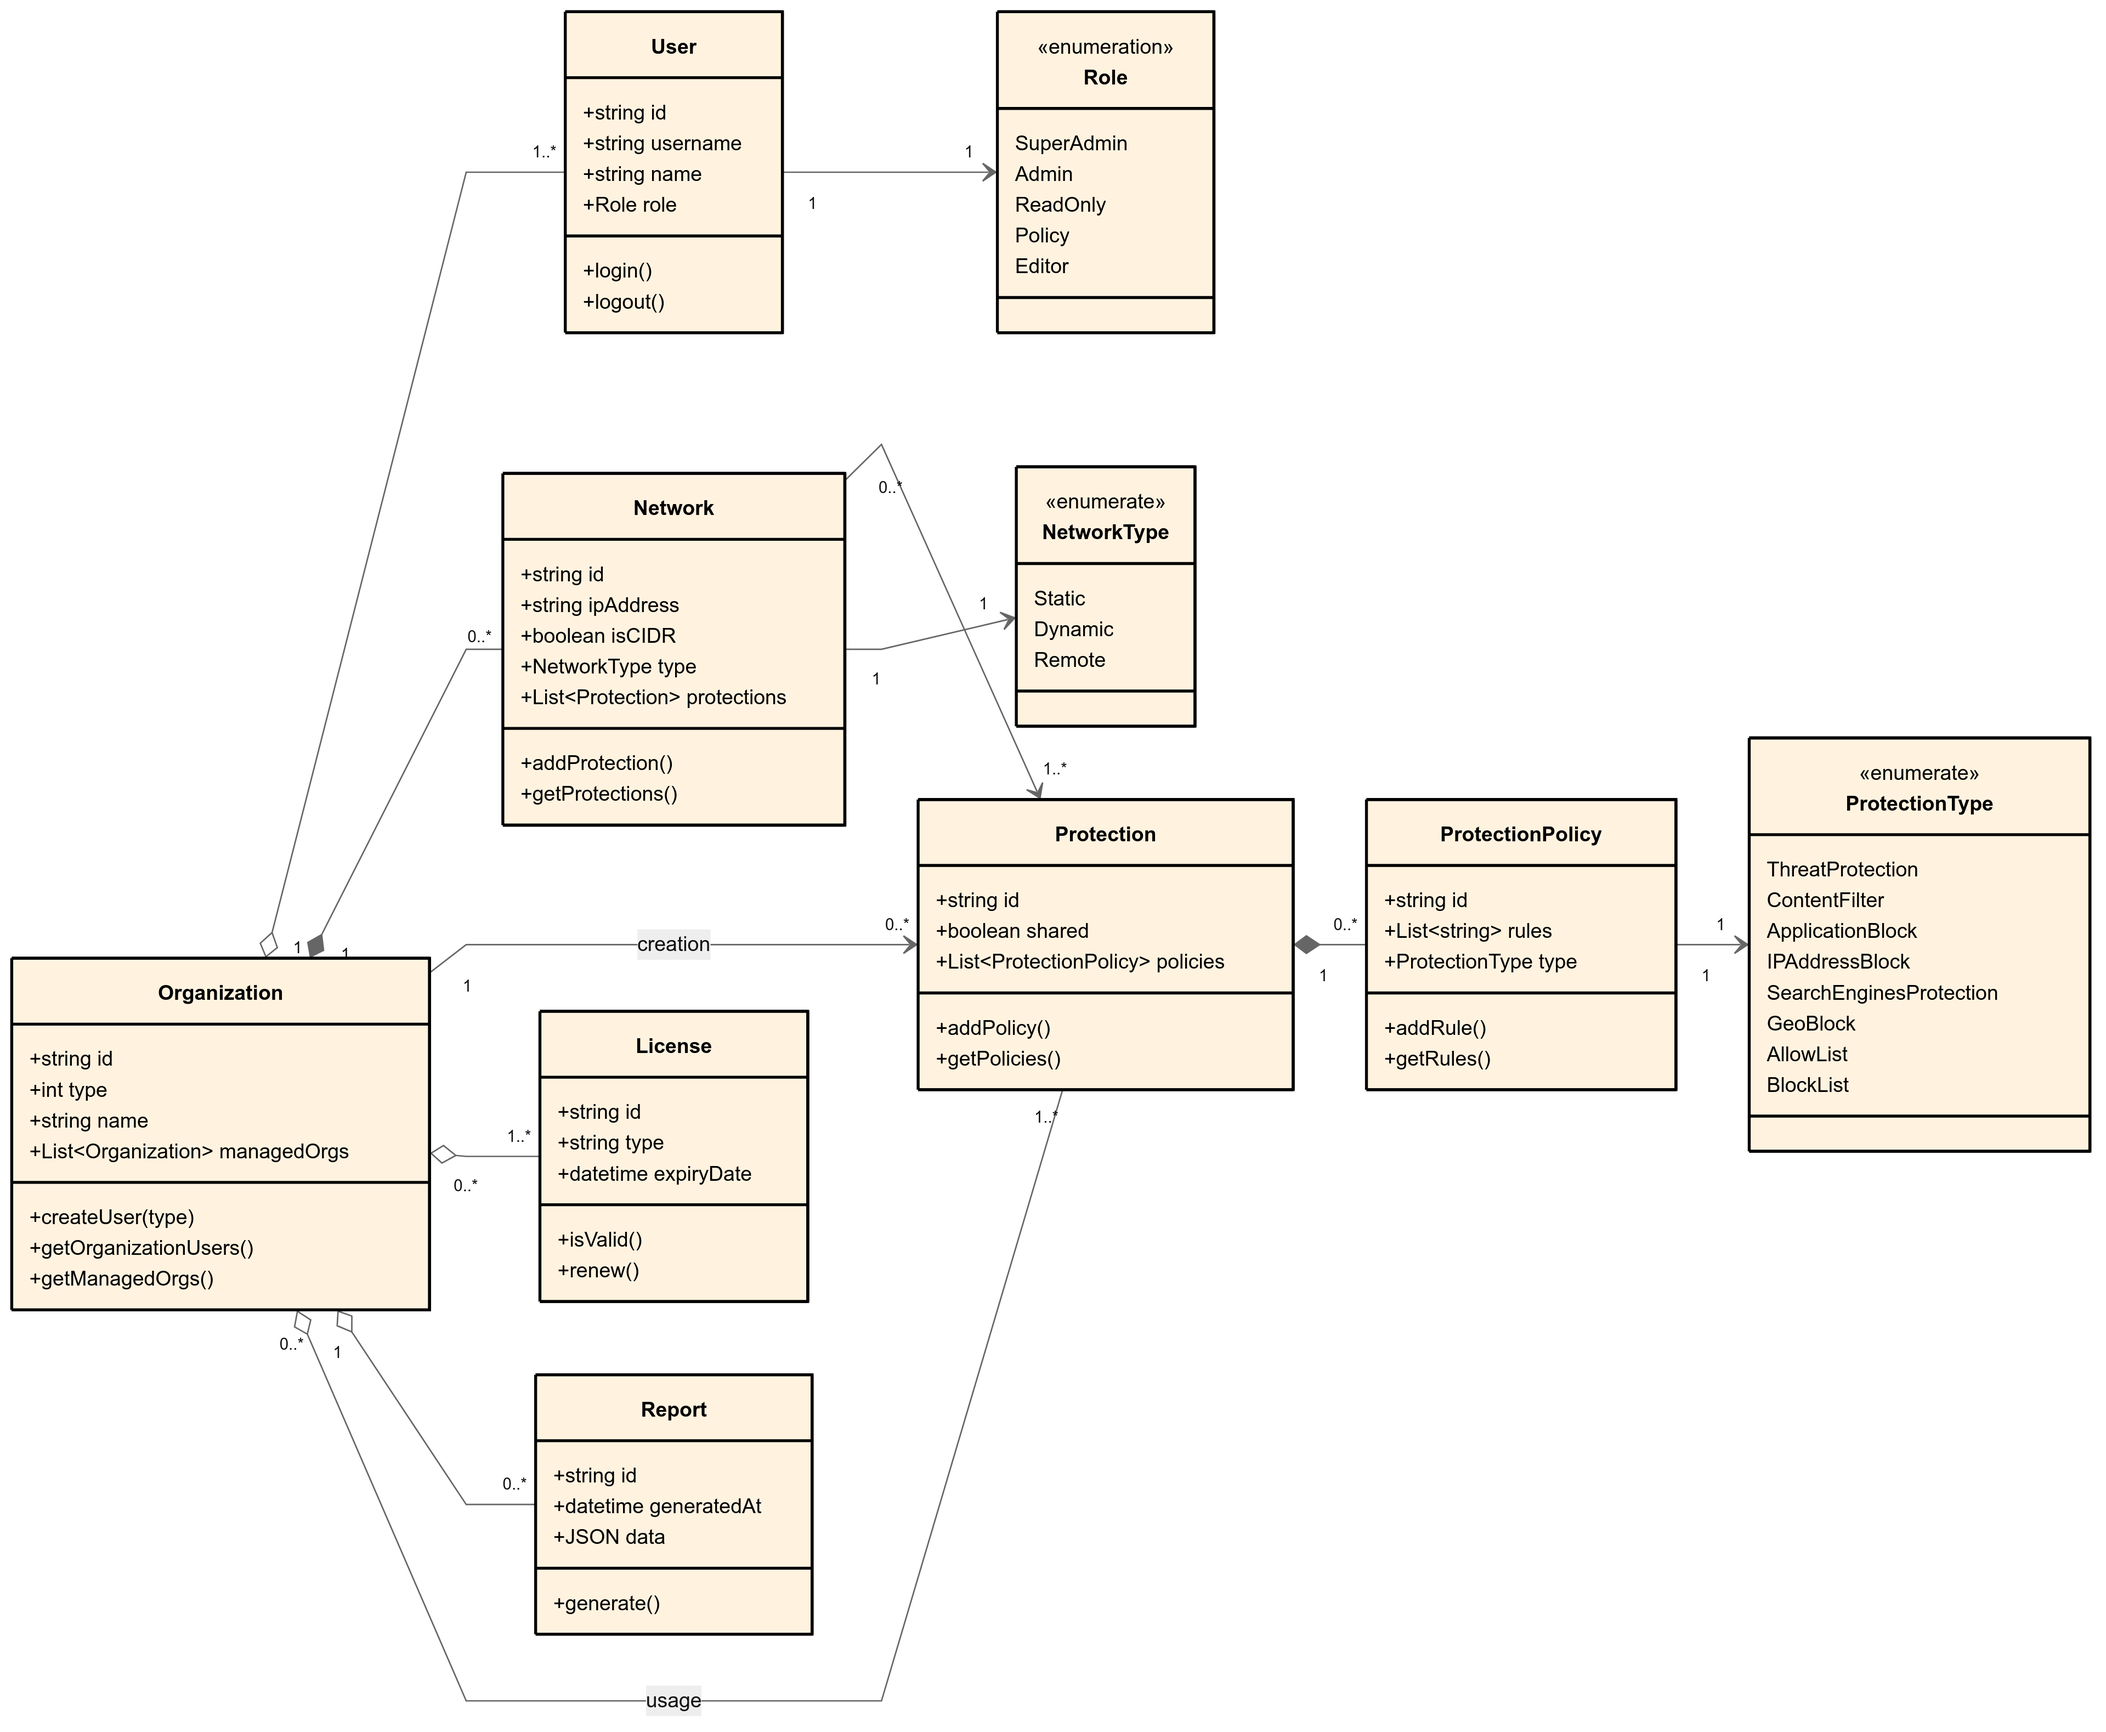
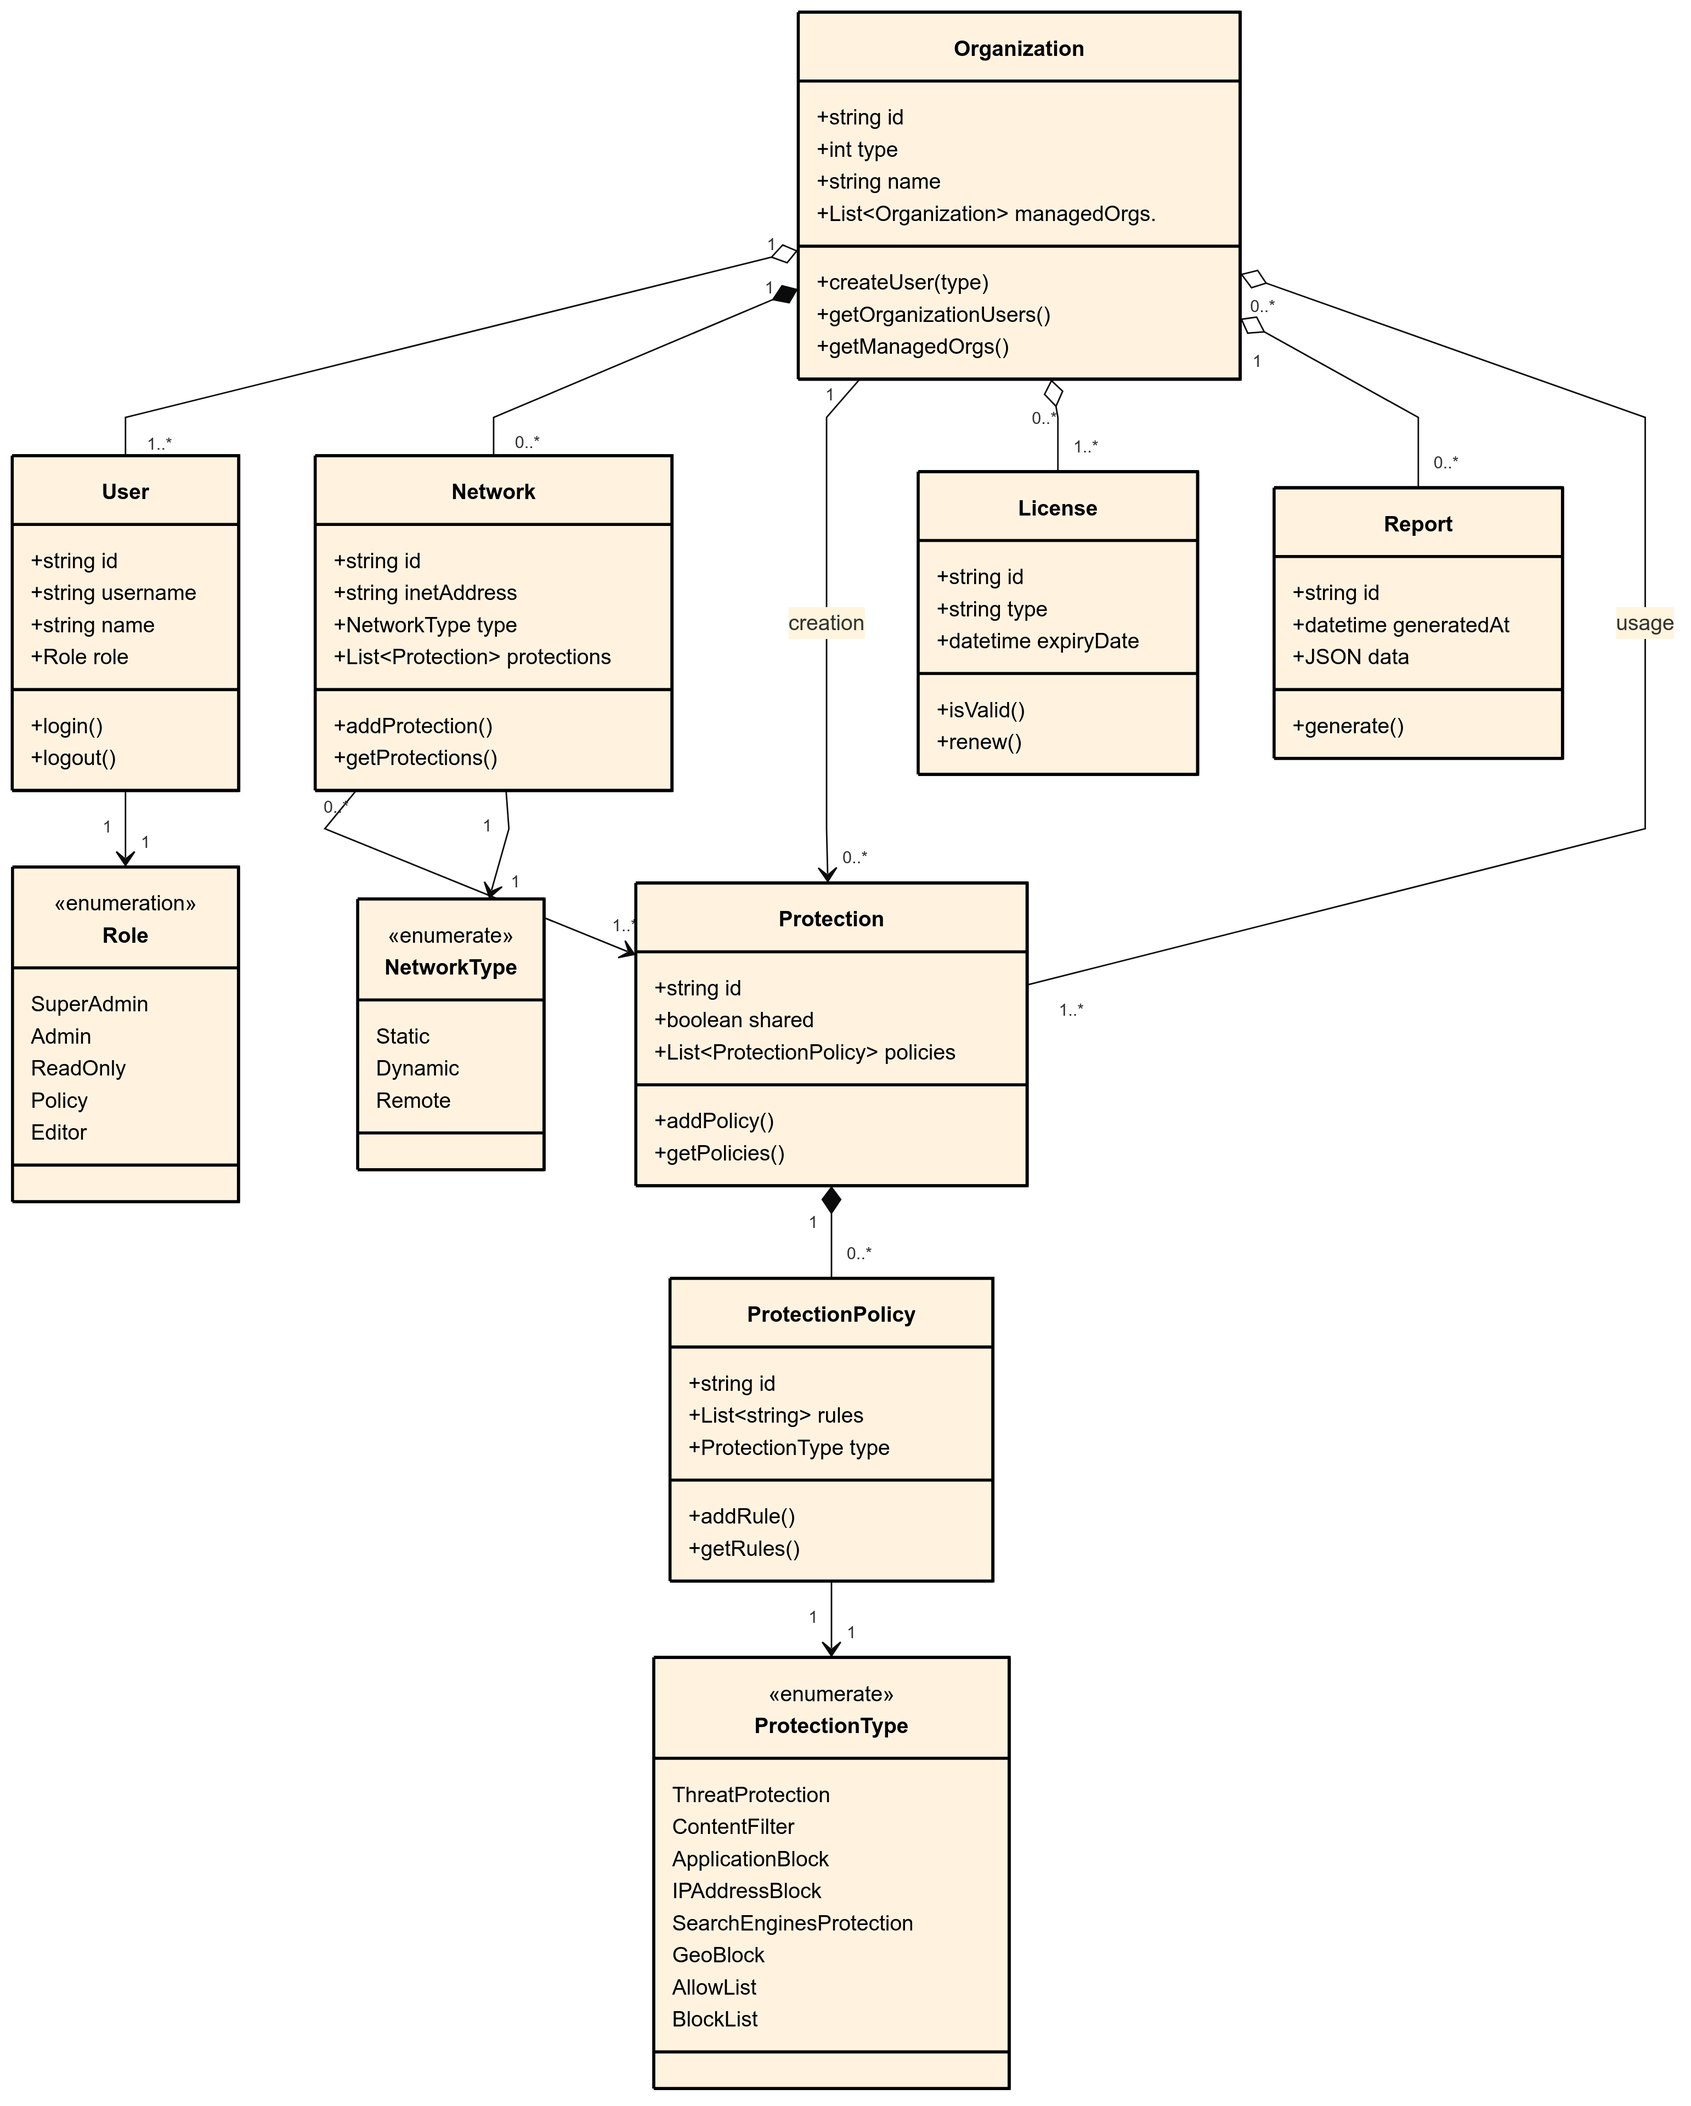
Diagramma del dominio allargato e altri piccoli ritocchi al testo

diff --git a/chapters/chapter-3.tex b/chapters/chapter-3.tex
@@ -259,8 +259,8 @@ In \Cref{fig:domain_model} è riportato il diagramma delle classi in formato UML
 
 \begin{figure}
   \centering
-  \includegraphics[width=1\textwidth]{./figures/domain-model.png}
-  \caption{Diagramma relativo al dominio applicativo del nuovo sistema.}
+  \includegraphics[width=1\textwidth]{figures/domain-model.png}
+  \caption{Diagramma delle classi UML relativo al dominio applicativo del nuovo sistema.}
   \label{fig:domain_model}
 \end{figure}
 
@@ -271,7 +271,7 @@ L'organizzazione è l'elemento che definisce l'esistenza stessa di un utente all
 
 L'entità in questione non si limita a definire il perimetro degli utenti, ma è il nodo centrale attorno al quale ruotano tutte le altre configurazioni del sistema. Ogni organizzazione è associata a una o più reti (Network), che rappresentano gli indirizzi IP da sottoporre al filtraggio DNS. Le configurazioni di protezione (Protection), che definiscono cosa filtrare, sono legate all'organizzazione e non ai singoli utenti. Questo significa che tutte le policy di filtraggio sono decise a livello organizzativo. I dati statistici relativi all’utilizzo del sistema di filtraggio DNS sono raccolti e visualizzati a livello di organizzazione, consentendo agli utenti di monitorare il traffico filtrato e le attività correlate.
 
-Ogni organizzazione è identificata da un id univoco, un nome e una tipologia che ne determina il ruolo all'interno del sistema. Esistono due macrotipologie di organizzazione:
+Ogni organizzazione è identificata da un \texttt{id} univoco, un nome (\texttt{name}) e una tipologia (\texttt{type}) che ne determina il ruolo all'interno del sistema. Esistono due macrotipologie di organizzazione:
 \begin{itemize}
   \item \textbf{Organizzazioni che gestiscono altre organizzazioni}, ovvero Managed Service Provider e Dealer.
     \begin{itemize}
@@ -297,7 +297,7 @@ Esistono cinque tipologie di utenti, ciascuna con permessi specifici nell'ambito
   \item \textbf{ReadOnly}: è l'utente con il livello di accesso più limitato. Ha esclusivamente il permesso di visionare report e statistiche, senza poter modificare alcuna configurazione. Il suo ruolo è strettamente legato al monitoraggio passivo delle attività del filtro DNS per una data organizzazione.
 \end{itemize}
 
-Ogni utente è identificato da un id, un nome, un ruolo e un username. Il campo username contiene l'indirizzo email dell'utente ed è utilizzato per l'autenticazione all'interno del sistema.
+Ogni utente è identificato da un \texttt{id}, un nome (\texttt{name}), un ruolo (\texttt{role}) e da uno \texttt{username}. Quest'ultimo campo contiene l'indirizzo email dell'utente ed è utilizzato per l'autenticazione all'interno del sistema.
 
 \subsubsection{License}
 L'entità \texttt{License} rappresenta una delle componenti ancora in fase di modellazione, ma il suo ruolo nel sistema è chiaro: essa determina il livello di servizio del prodotto associato a un'organizzazione e influisce sui permessi e sulle funzionalità disponibili per quest’ultima. Ogni organizzazione deve disporre di almeno una licenza attiva per poter usufruire del servizio di filtraggio DNS.
@@ -354,4 +354,4 @@ Una rete può appartenere a una delle seguenti tipologie, identificate dall'enum
   \item \textbf{Remote}: utilizzata per proteggere dispositivi mobili ed endpoint aziendali che richiedono la protezione del filtro DNS anche quando non sono connessi alla rete principale dell'organizzazione.
 \end{itemize}
 
-Ogni Network è identificata da un id, da un ipAddress e da un flag isCIDR, che indica se l’indirizzo IP è espresso in formato CIDR\footnote{\url{https://datatracker.ietf.org/doc/html/rfc4632}}. L’associazione tra Network e Protection permette di applicare un insieme di policy a una specifica rete, garantendo così un controllo granulare sul filtraggio del traffico DNS.
+Ogni Network è identificata da un \texttt{id}, da un \texttt{type} e da un \texttt{inetAddress}. Quest'ultimo supporta sia indirizzi IPv4 che IPv6 e consente l'inserimento di intervalli IP secondo lo standard CIDR\footnote{\url{https://datatracker.ietf.org/doc/html/rfc4632}}, specificandoli con una barra finale (es. \texttt{192.168.1.0/24}). L'associazione tra \texttt{Network} e \texttt{Protection} permette di applicare un insieme di policy a una specifica rete, garantendo così un controllo granulare sul filtraggio del traffico DNS.
